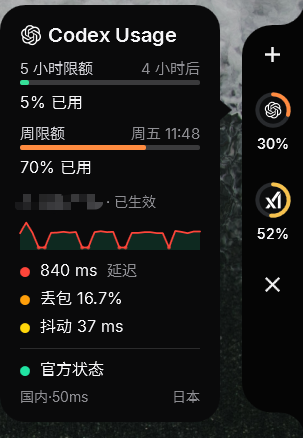
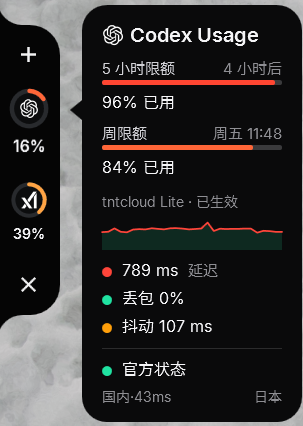
Keep the black tongue at ring height when the detail card is tall.
Replace the TwinDock Codex screenshot with a crop that no longer shows extra rail below the exit button.

diff --git a/QuotaDock/MainWindow.xaml.cs b/QuotaDock/MainWindow.xaml.cs
@@ -1821,13 +1821,15 @@ public partial class MainWindow : Window
         // 有效个数是连续量：缓动过程中手柄/列表跟着当前帧走，而不是在首帧就跳到整数终点。
         // （之前 × 按钮首帧瞬移 72px，就是减环时下半闪动的来源。）稳态时它恒等于整数个数。
         var effCount = CurrentEffCount();
+        var railHeight = RailGeometry.EdgePad + RailGeometry.EndControl +
+            effCount * RailGeometry.ItemPitch + RailGeometry.EndControl + RailGeometry.EdgePad;
         Height = height;
         Width = RailGeometry.CardColumn + RailGeometry.Width;
         Stage.Width = Width;
         Stage.Height = height;
-        Rail.Height = height;
+        Rail.Height = railHeight;
         RailShape.Width = RailGeometry.Width;
-        RailShape.Height = height;
+        RailShape.Height = railHeight;
         ApplyRailPath();
         Canvas.SetLeft(PlusHandle, 9);
         Canvas.SetTop(PlusHandle, RailGeometry.PlusTop + 4);
@@ -1838,7 +1840,7 @@ public partial class MainWindow : Window
         Canvas.SetLeft(DragHandle, 9);
         Canvas.SetTop(DragHandle, RailGeometry.EdgePad + RailGeometry.EndControl + RailGeometry.ItemPitch * effCount + 4);
         EdgeHotZone.Height = 58;
-        Canvas.SetTop(EdgeHotZone, Math.Max(0, (height - 58) / 2));
+        Canvas.SetTop(EdgeHotZone, Math.Max(0, (railHeight - 58) / 2));
         if (!_floatingChrome)
         {
             ApplyEdgeLayout(_settings.Edge);
@@ -1873,7 +1875,6 @@ public partial class MainWindow : Window
         }
 
         if (Math.Abs(Height - targetHeight) < 0.5 &&
-            Math.Abs(Rail.Height - targetHeight) < 0.5 &&
             Math.Abs(CurrentEffCount() - toCount) < 0.01 &&
             Math.Abs(Top - targetTop) < 0.5)
         {

diff --git a/TwinDock/MainWindow.xaml.cs b/TwinDock/MainWindow.xaml.cs
@@ -1908,13 +1908,15 @@ public partial class MainWindow : Window
         // 有效个数是连续量：缓动过程中手柄/列表跟着当前帧走，而不是在首帧就跳到整数终点。
         // （之前 × 按钮首帧瞬移 72px，就是减环时下半闪动的来源。）稳态时它恒等于整数个数。
         var effCount = CurrentEffCount();
+        var railHeight = RailGeometry.EdgePad + RailGeometry.EndControl +
+            effCount * RailGeometry.ItemPitch + RailGeometry.EndControl + RailGeometry.EdgePad;
         Height = height;
         Width = RailGeometry.CardColumn + RailGeometry.Width;
         Stage.Width = Width;
         Stage.Height = height;
-        Rail.Height = height;
+        Rail.Height = railHeight;
         RailShape.Width = RailGeometry.Width;
-        RailShape.Height = height;
+        RailShape.Height = railHeight;
         ApplyRailPath();
         Canvas.SetLeft(PlusHandle, 9);
         Canvas.SetTop(PlusHandle, RailGeometry.PlusTop + 4);
@@ -1925,7 +1927,7 @@ public partial class MainWindow : Window
         Canvas.SetLeft(DragHandle, 9);
         Canvas.SetTop(DragHandle, RailGeometry.EdgePad + RailGeometry.EndControl + RailGeometry.ItemPitch * effCount + 4);
         EdgeHotZone.Height = 58;
-        Canvas.SetTop(EdgeHotZone, Math.Max(0, (height - 58) / 2));
+        Canvas.SetTop(EdgeHotZone, Math.Max(0, (railHeight - 58) / 2));
         if (!_floatingChrome)
         {
             ApplyEdgeLayout(_settings.Edge);
@@ -1960,7 +1962,6 @@ public partial class MainWindow : Window
         }
 
         if (Math.Abs(Height - targetHeight) < 0.5 &&
-            Math.Abs(Rail.Height - targetHeight) < 0.5 &&
             Math.Abs(CurrentEffCount() - toCount) < 0.01 &&
             Math.Abs(Top - targetTop) < 0.5)
         {

diff --git a/LineDock/MainWindow.xaml.cs b/LineDock/MainWindow.xaml.cs
@@ -1503,13 +1503,14 @@ public partial class MainWindow : Window, INotifyPropertyChanged
             height = Math.Max(height, _detailNeed + 16);
         }
 
+        var railHeight = RailGeometry.HeightFor(LineCount);
         Height = height;
         Width = RailGeometry.CardColumn + RailGeometry.Width;
         Stage.Width = Width;
         Stage.Height = height;
-        Rail.Height = height;
+        Rail.Height = railHeight;
         RailShape.Width = RailGeometry.Width;
-        RailShape.Height = height;
+        RailShape.Height = railHeight;
         ApplyRailPath();
         Canvas.SetLeft(PlusHandle, 9);
         Canvas.SetTop(PlusHandle, RailGeometry.PlusTop + 4);
@@ -1520,7 +1521,7 @@ public partial class MainWindow : Window, INotifyPropertyChanged
         Canvas.SetLeft(DragHandle, 9);
         Canvas.SetTop(DragHandle, RailGeometry.GearTop(LineCount) + 4);
         EdgeHotZone.Height = 58;
-        Canvas.SetTop(EdgeHotZone, Math.Max(0, (height - 58) / 2));
+        Canvas.SetTop(EdgeHotZone, Math.Max(0, (railHeight - 58) / 2));
         if (!_floatingChrome)
         {
             ApplyEdgeLayout(_settings.Edge);
